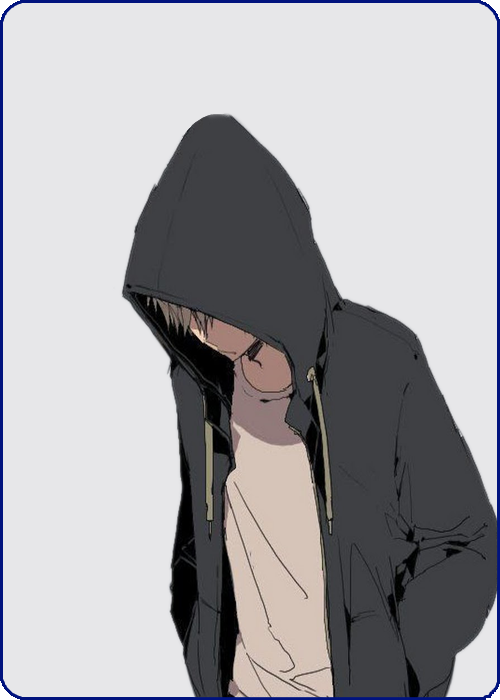
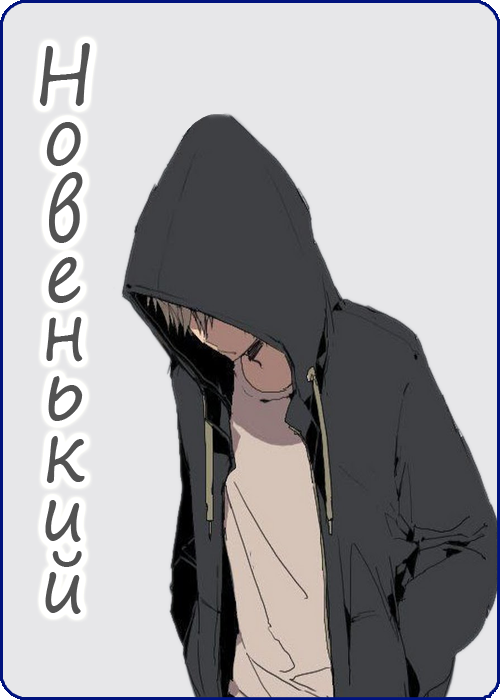
AI correction

Changed region(s): [[0.09, 0.15, 0.18, 0.69], [0.09, 0.72, 0.18, 0.9], [0.06, 0.06, 0.18, 0.15]]

diff --git a/script.js b/script.js
@@ -36,6 +36,7 @@ function workarea_render() {
     let right_container = document.querySelector('#right-container-area');
     let bottom_container = document.querySelector('#bottom-container-area');
 
+    let cards_info = get_cards_info(data.user_name);
     for (let player_key in data.players_data) {
         player = data.players_data[player_key];
         if (player.type == "user") {
@@ -58,6 +59,19 @@ function workarea_render() {
                 let card_key = i - 1;
                 let card_img = document.createElement('img');
                 card_img.src = "images/cards/" + user_cards[card_key] + ".png";
+                /*
+                if (cards_info[user_cards[card_key]]['id'] == "user1") {
+                    let user_card_name = document.createElement('div');
+                    user_card_name.className = "user-card-name";
+                    user_card_name.innerHTML = "Юзер";
+                    user_card_name.style['z-index'] = 20;
+
+                    let user_card_name_container = document.createElement('div');
+                    user_card_name_container.className = "user-card-name-container";
+                    user_card_name_container.append(user_card_name);
+
+                    card.append(user_card_name_container);
+                }*/
                 card.append(card_img);
 
                 bottom_container.append(card);
@@ -380,7 +394,6 @@ function new_user_action(data) {
         weapon_selector.append(weapon_option);
     }
 
-
     let modal_center_location = document.createElement('div');
     modal_center_location.id = "modal-center-location";
     modal_center.append(modal_center_location);
@@ -410,7 +423,6 @@ function new_user_action(data) {
         location_option.innerHTML = card_name;
         location_selector.append(location_option);
     }
-
 
     let modal_bottom = document.createElement('div');
     modal_bottom.id = "modal-bottom";
@@ -826,9 +838,9 @@ function new_bot_action() {
 
     //подготовка к проверкам - распределение по группам
     let true_cards = 0;
-    let cards_player = { 'total': [], 'false': [], 'unknown': [] };
-    let cards_weapon = { 'total': [], 'false': [], 'unknown': [] };
-    let cards_location = { 'total': [], 'false': [], 'unknown': [] };
+    let cards_player = { 'total': [], 'false': [], 'unknown': [], 'true': false };
+    let cards_weapon = { 'total': [], 'false': [], 'unknown': [], 'true': false };
+    let cards_location = { 'total': [], 'false': [], 'unknown': [], 'true': false };
     for (card in calc_list) {
         if (cards_info[card]["type"] == "player") {
             cards_player['total'].push(card);
@@ -860,6 +872,48 @@ function new_bot_action() {
             } else {
                 cards_location['unknown'].push(card);
             }
+        }
+    }
+
+    //корректировки групп
+    for (let i = 0; i < 3; i++) {
+        let cards_group = false;
+        if (i == 0) {
+            cards_group = cards_player;
+        } else if (i == 1) {
+            cards_group = cards_weapon;
+        } else if (i == 2) {
+            cards_group = cards_location;
+        }
+        //корректировка
+        if (!cards_group['true'] && cards_group['unknown'].length == 1) {
+            let move_card = cards_group['unknown'][0];
+            cards_group['true'] = move_card;
+            cards_group['unknown'] = [];
+            calc_list[move_card]["rate"] = 10000;
+            //console.log('correct1 ' + move_card);
+        } else if (!cards_group['true'] && cards_group['unknown'].length > 1) {
+            let total_rate = 0
+            for (card of cards_group['unknown']) {
+                total_rate = total_rate + calc_list[card]["rate"];
+            }
+            let average_rate = Math.round(total_rate / cards_group['unknown'].length);
+            let dev_list = [];
+            for (card of cards_group['unknown']) {
+                let rate = calc_list[card]["rate"];
+                let deviation = rate - average_rate;
+                dev_list.push({ name: card, val: deviation });
+            }
+            dev_list.sort(function (a, b) { return b.val - a.val; });
+            let max_dev_card = dev_list[0]['name'];
+            if (neutral_to_true_check(player, dev_list[0]['val'], dev_list[1]['val'], calc_list[max_dev_card]["actions"], cards_group['unknown'].length)) {
+                cards_group['true'] = max_dev_card;
+                cards_group['unknown'].splice(cards_group['unknown'].indexOf(max_dev_card), 1);
+                calc_list[max_dev_card]["rate"] = 10000;
+                //console.log('correct2 ' + max_dev_card);
+            }
+        } else {
+            //console.log('НЕ запуск для ' + player + ' i=' + i + ' верная группа' + cards_group['true'] + 'длина распр. ' + cards_group['unknown'].length);
         }
     }
 
@@ -955,6 +1009,9 @@ function new_bot_action() {
             unknown_array = cards_player['false'];
         }
         player_pick = neutral_distribution_select(unknown_array, calc_list);
+        if (!player_pick) {
+            player_pick = arrayRandElement(cards_player['total']);
+        }
     }
     if (!weapon_pick) { //неизвестно оружие
         let unknown_array = cards_weapon['unknown'];
@@ -962,6 +1019,9 @@ function new_bot_action() {
             unknown_array = cards_weapon['false'];
         }
         weapon_pick = neutral_distribution_select(unknown_array, calc_list);
+        if (!weapon_pick) {
+            weapon_pick = arrayRandElement(cards_weapon['total']);
+        }
     }
     if (!location_pick) { //неизвестно место
         let unknown_array = cards_location['unknown'];
@@ -969,6 +1029,9 @@ function new_bot_action() {
             unknown_array = cards_location['false'];
         }
         location_pick = neutral_distribution_select(unknown_array, calc_list);
+        if (!location_pick) {
+            location_pick = arrayRandElement(cards_location['total']);
+        }
     }
     let bot_selected = [player_pick, weapon_pick, location_pick];
     console.log('selected ' + bot_selected);
@@ -1027,7 +1090,10 @@ function neutral_distribution_select(array, calc_list) {
             chance = base_chance;
         }
         //чем чаще спрашивали карту, тем меньше шанс ее выбора
-        chance = Math.round(chance / Math.sqrt(actions + 1));
+        chance = Math.round(chance / Math.sqrt(actions * 2 + 1)); //*2 для увеличенной поправки
+        if (chance < 1) {
+            chance = 1;
+        }
         //распределяем карты с шансами по отрезку
         selection[card] = { "min": selection_point };
         selection_point = selection_point + chance;
@@ -1063,6 +1129,47 @@ function neutral_distribution_target_check(array, calc_list) {
         }
     }
     return false;
+}
+
+//проверка на выведение карты из нейтрального распределения в предположительно верную
+function neutral_to_true_check(player_id, first_dev_rate, second_dev_rate, actions, neutral_amount) {
+    //задать параметры для игроков
+    let params = {
+        'ri': { 'border': 30, 'chance': 10 }, //Рика - осторожная, при превышении бьет наверняка
+        'ha': { 'border': 30, 'chance': 5 }, //Ханю - осторожная
+        'mi': { 'border': 20, 'chance': 5 }, //Мион - средняя, средний шанс
+        're': { 'border': 40, 'chance': 3 }, //Рэна - максимальная осторожность
+        'si': { 'border': 20, 'chance': 8 }, //Шион - средняя, бьет решительно
+        'sa': { 'border': 15, 'chance': 8 }, //Сатоко - максимально агрессивная
+    };
+    let player_border = params[player_id]['border'];
+    let player_chance = params[player_id]['chance'];
+    //нулевая проверка - по заполненности данных (исключение ошибок)
+    if (!player_border || !player_chance) {
+        return false;
+    }
+    //первая проверка - по верхней хотя бы 2 проверки
+    if (neutral_amount <= 1) {
+        return false;
+    }
+    //вторая проверка - отклонение верхней превышает порог с поправкой на оставшееся число в распределении
+    let real_border = Math.floor((neutral_amount / 5) * player_border);
+    if (first_dev_rate < real_border) {
+        //console.log('не превышает границы, надо ' + real_border);
+        return false;
+    }
+    //третья проверка - увеличивается шанс прохода в зависимости от отклонения между 1 и 2
+    let dev_amount = first_dev_rate - second_dev_rate;
+    let k = dev_amount / 20; //если больше 20 - шанс возрастает прогрессией 3-ей степени
+    let real_chance = Math.floor(player_chance * Math.pow(k, 3));
+    let random_value = Math.floor(Math.random() * 100);
+    if (random_value < real_chance) {
+        //console.log('ПРОШЛО по разнице 1-2, шанс ' + real_chance);
+        return true;
+    } else {
+        //console.log('не прошло по разнице 1-2, шанс ' + real_chance);
+        return false;
+    }
 }
 
 function player_speach_show(position, side, text) {

diff --git a/style.css b/style.css
@@ -355,6 +355,28 @@ img {
     bottom: calc(33%);
 }
 
+/* did't use */
+.user-card-name-container {
+    width: 100%;
+    height: 100%;
+    position: absolute;
+    left: inherit;
+    top: inherit;
+}
+
+/* did't use */
+.user-card-name {
+    position: absolute;
+    top: calc(30px - 1.5vw);
+    left: calc(-40px - 2vw);
+    writing-mode: vertical-lr; 
+    text-orientation: upright; 
+    color: blue;
+    font-size: 130%;
+    letter-spacing: -0.5em;
+    font-family: 'Segoe Print', 'Trebuchet MS', 'Lucida Sans Unicode', 'Lucida Grande', 'Lucida Sans', Arial, sans-serif;
+}
+
 /* borders */
 
 .ri-border {
